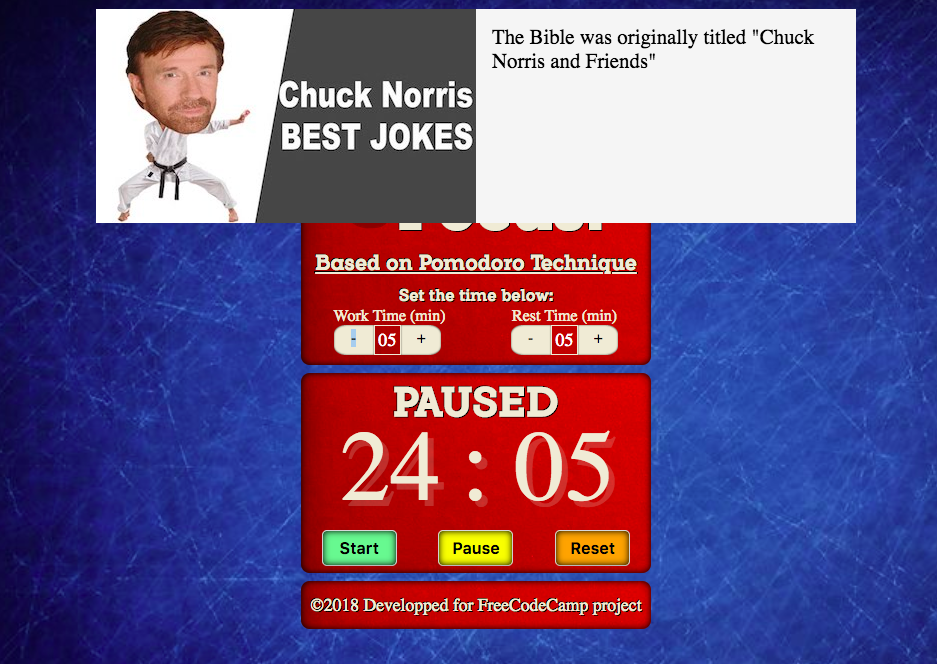
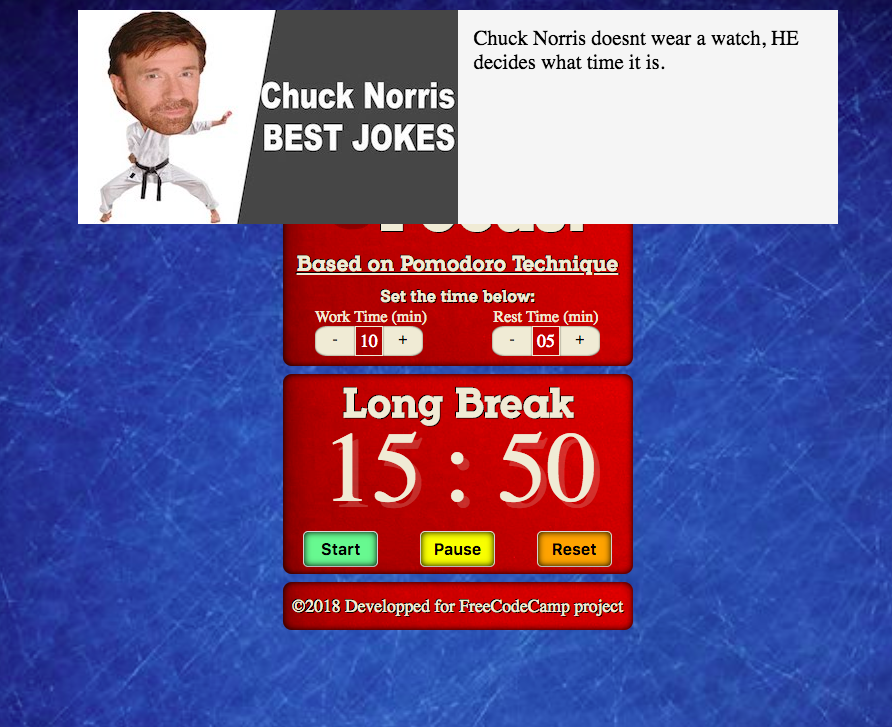
screenshot updated

diff --git a/FrontEndLibraryProjects/PomodoroClock/js/countdowntimerlogic.js b/FrontEndLibraryProjects/PomodoroClock/js/countdowntimerlogic.js
@@ -173,7 +173,7 @@ function countDown(minutes,seconds) {
       $('.minutes').html(formattedMinutes);
       $('.seconds').html(formattedSeconds);
         
-    }, 10);
+    }, 1000);
 }   
  
 
